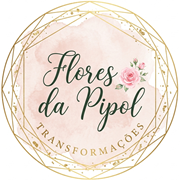
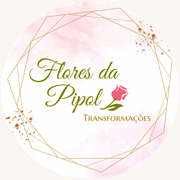
fix: images

diff --git a/src/components/FloresDaPipolLogo.tsx b/src/components/FloresDaPipolLogo.tsx
@@ -1,5 +1,5 @@
 import React from 'react';
-import logoFloresDaPipol from '../assets/images/logo_flores_da_pipol_1791419375972.jpg';
+import logoFloresDaPipol from '../assets/images/logo-flores-da-pipol.png';
 
 interface FloresDaPipolLogoProps {
   size?: 'sm' | 'md' | 'lg';
@@ -34,24 +34,21 @@ export const FloresDaPipolLogo: React.FC<FloresDaPipolLogoProps> = ({
 
   return (
     <div className={`flex items-center gap-2 sm:gap-3 ${className}`}>
-      <div className={`${sizeClass} shrink-0 overflow-hidden rounded-full`}>
-        {/* The source image has wide white margins around the circular badge; scaling crops them out. */}
-        <img
-          src={logoFloresDaPipol}
-          alt={withName ? '' : 'Flores da Pipol'}
-          className="h-full w-full object-contain scale-[1.28] mix-blend-multiply"
-        />
-      </div>
+      <img
+        src={logoFloresDaPipol}
+        alt={withName ? '' : 'Flores da Pipol'}
+        className={`${sizeClass} shrink-0 object-contain drop-shadow-sm`}
+      />
 
       {withName && (
         <div className="flex flex-col leading-none">
           <span
-            className={`${nameClass} font-serif-luxury font-bold text-[#24432B] whitespace-nowrap`}
+            className={`${nameClass} font-serif-luxury font-bold text-[#6c7427] whitespace-nowrap`}
           >
             Flores da Pipol
           </span>
           <span
-            className={`${taglineClass} mt-1 font-semibold uppercase text-[#B08A43] whitespace-nowrap`}
+            className={`${taglineClass} mt-1 font-semibold uppercase text-[#B07A2A] whitespace-nowrap`}
           >
             Transformações
           </span>

diff --git a/src/components/WorkshopLogo.tsx b/src/components/WorkshopLogo.tsx
@@ -1,5 +1,5 @@
 import React from 'react';
-import logoWorkshop from '../assets/images/logo_workshop_revolucao.png';
+import logoWorkshop from '../assets/images/logo-workshop.png';
 
 interface WorkshopLogoProps {
   size?: 'sm' | 'md' | 'lg' | 'xl';
